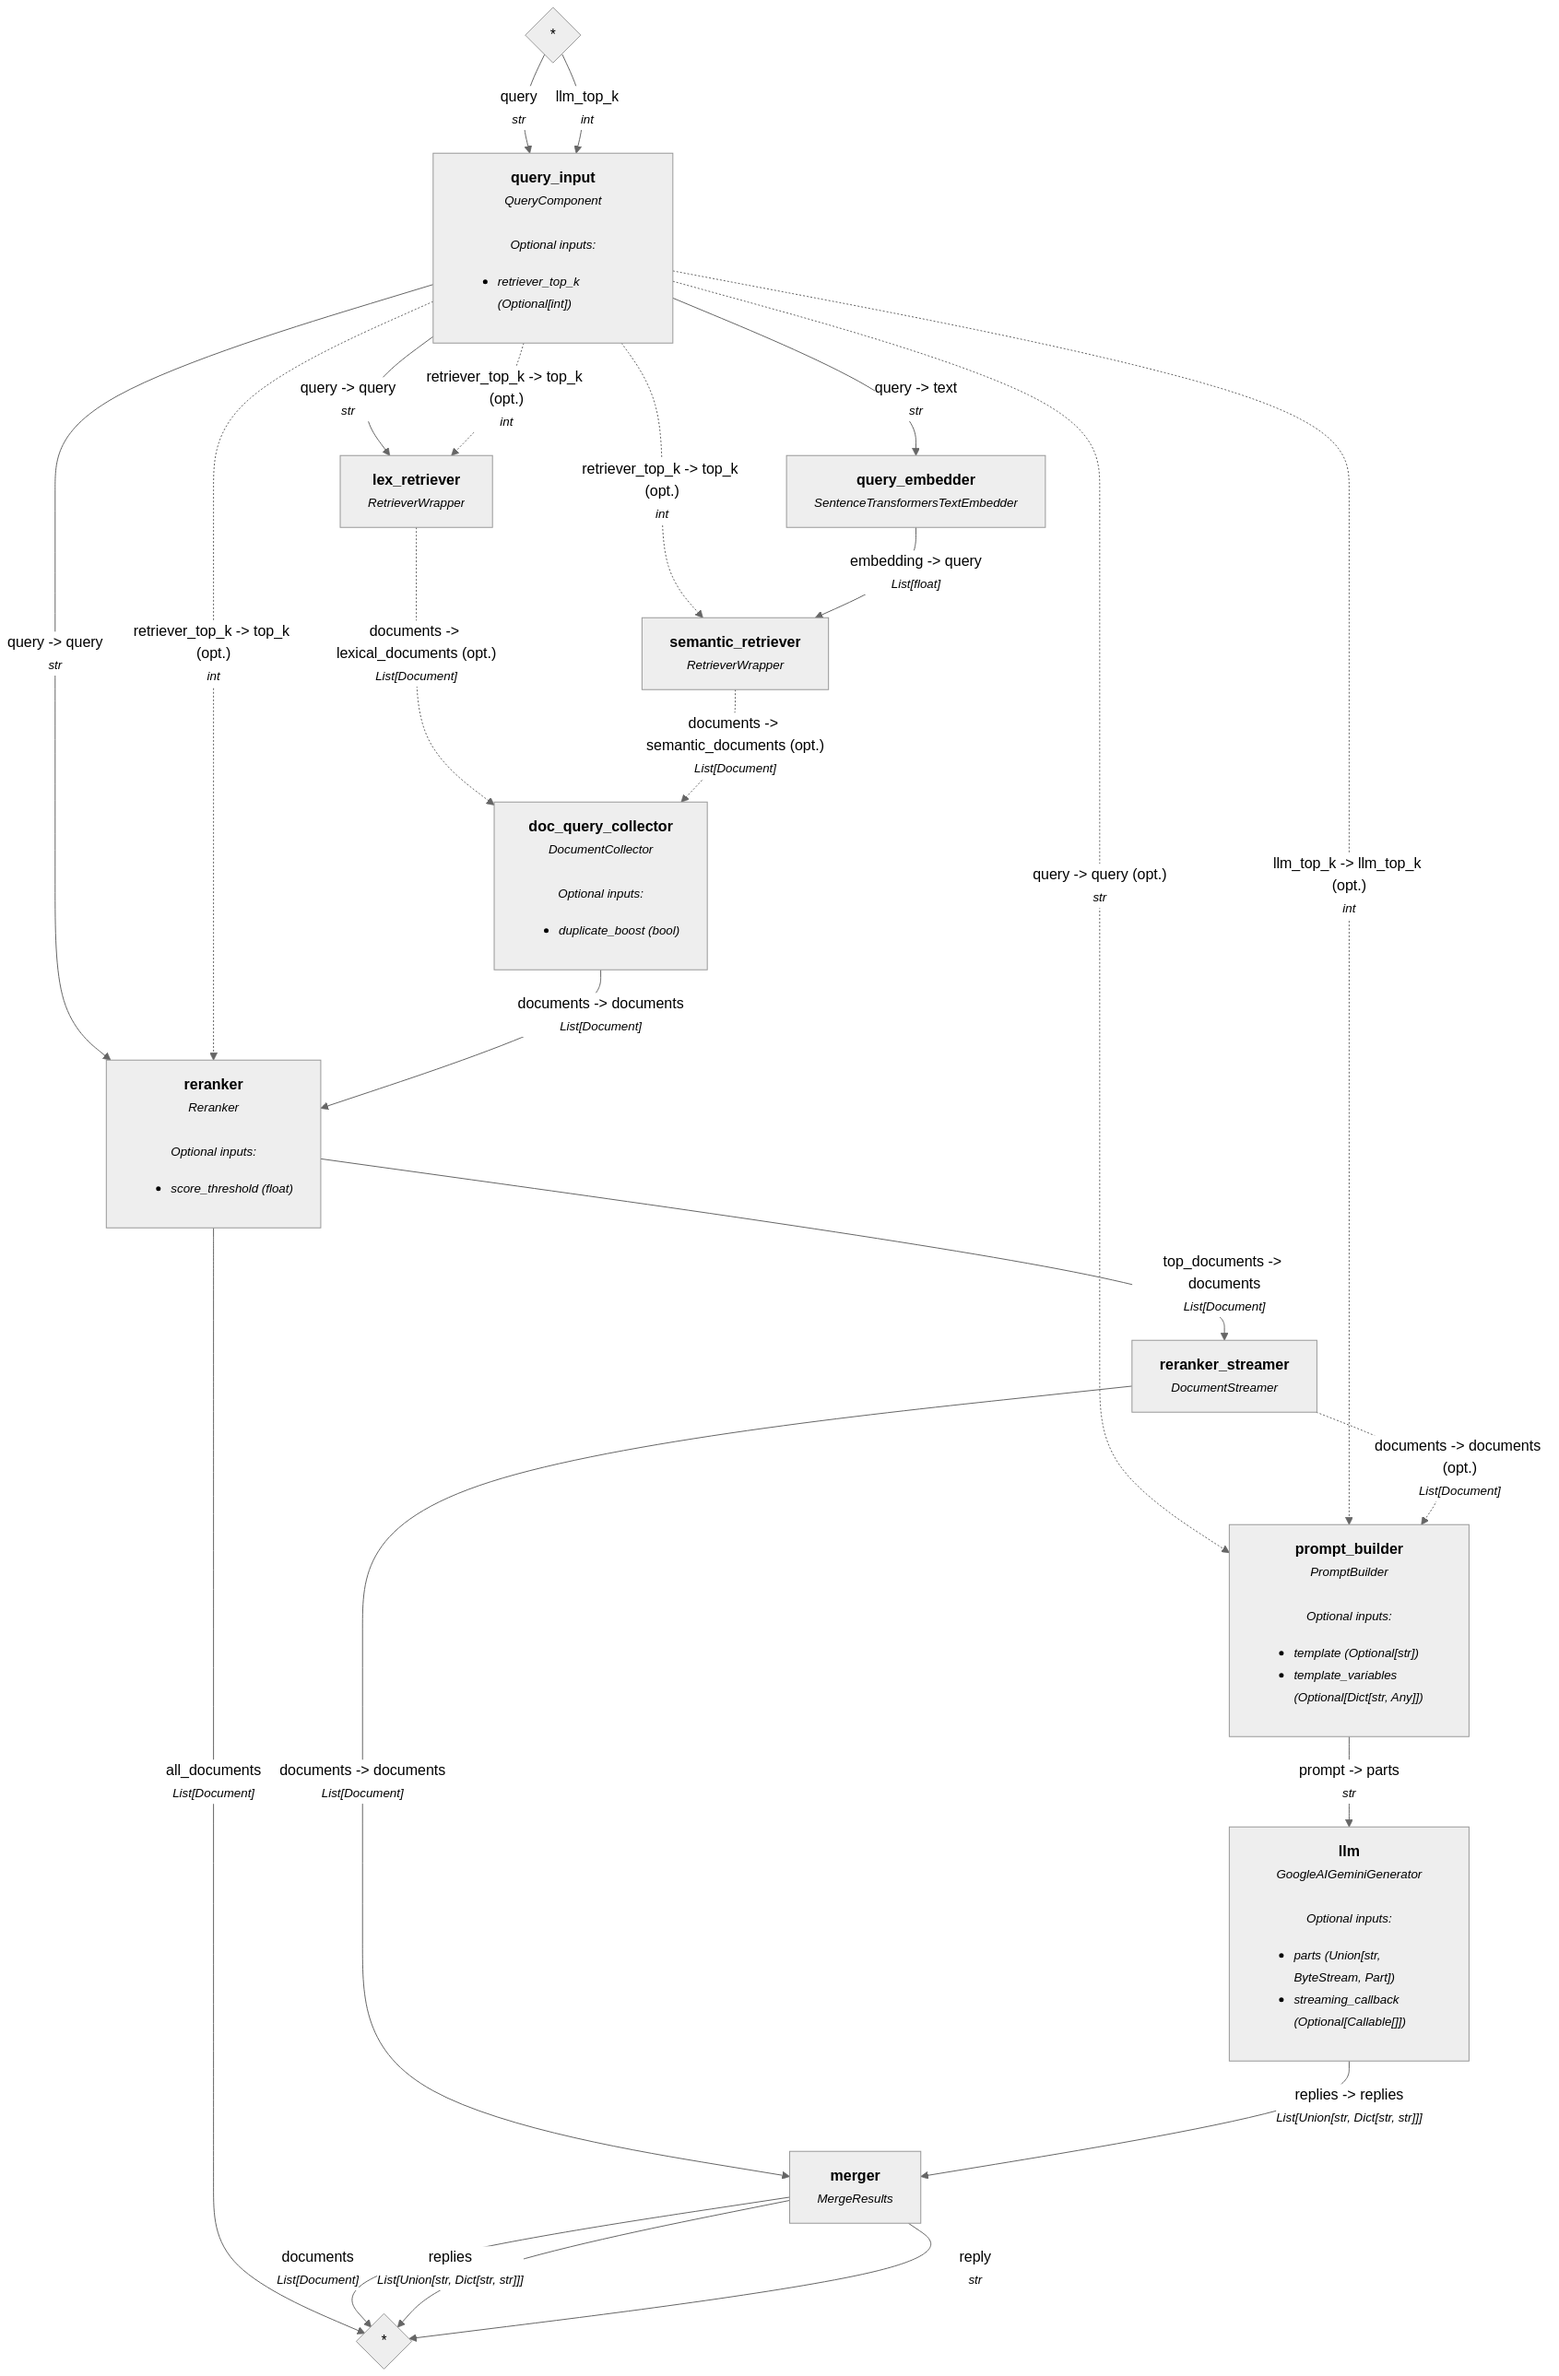
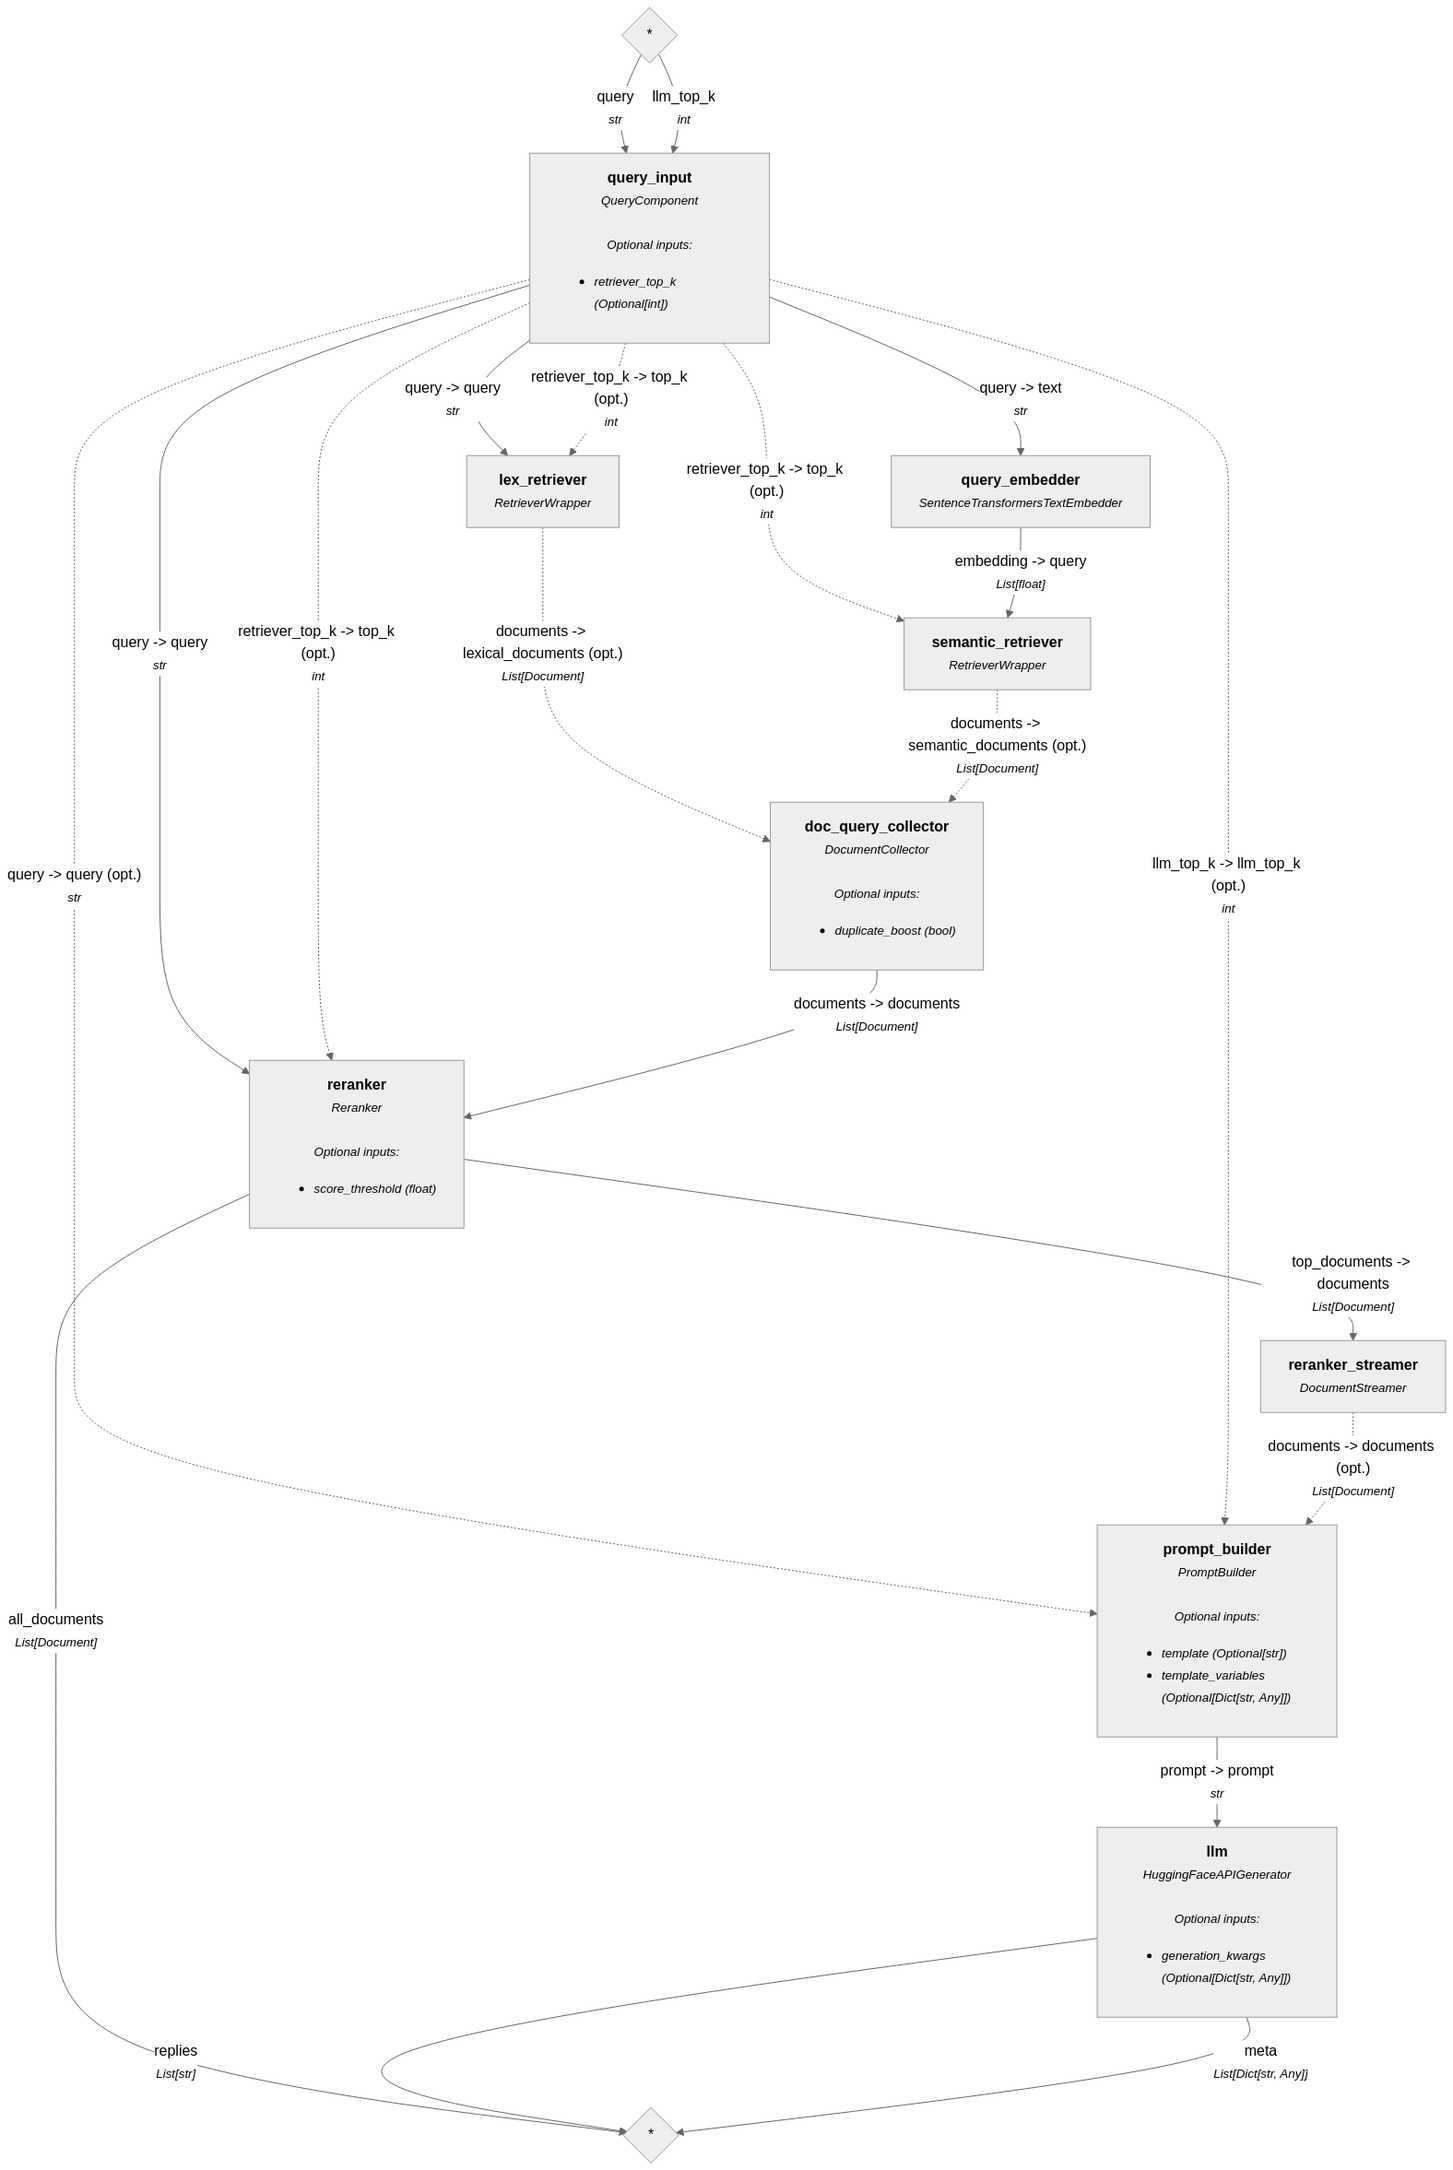
Works with streaming too.

diff --git a/rag_pipeline.py b/rag_pipeline.py
@@ -432,11 +432,11 @@ def main() -> None:
         user_name = "neo4j"
         db_name = "neo4j"
 
-    # hf_secret: str = gen.get_secret(r'D:\Documents\Secrets\huggingface_secret.txt')  # Put your path here
-    google_secret: str = gen.get_secret(r'D:\Documents\Secrets\gemini_secret.txt')  # Put your path here # noqa: F841
+    hf_secret: str = gen.get_secret(r'D:\Documents\Secrets\huggingface_secret.txt')  # Put your path here
+    # google_secret: str = gen.get_secret(r'D:\Documents\Secrets\gemini_secret.txt')  # Put your path here # noqa: F841
     # model: gen.GeneratorModel = gen.HuggingFaceLocalModel(password=hf_secret, model_name="google/gemma-1.1-2b-it")
-    model: gen.GeneratorModel = gen.GoogleGeminiModel(password=google_secret)
-    # model: gen.GeneratorModel = gen.HuggingFaceAPIModel(password=hf_secret, model_name="HuggingFaceH4/zephyr-7b-alpha")  # noqa: E501
+    # model: gen.GeneratorModel = gen.GoogleGeminiModel(password=google_secret)
+    model: gen.GeneratorModel = gen.HuggingFaceAPIModel(password=hf_secret, model_name="HuggingFaceH4/zephyr-7b-alpha")  # noqa: E501
     # model: gen.GeneratorModel = gen.OllamaModel(model_name="gemma2")
     # model: gen.GeneratorModel = gen.LlamaCppModel(model_link="https://huggingface.co/TheBloke/zephyr-7B-beta-GGUF/resolve/main/zephyr-7b-beta.Q4_K_M.gguf")   # noqa: E501
     # Possible outputs to include in the debug results: "lex_retriever", "semantic_retriever", "prompt_builder",
